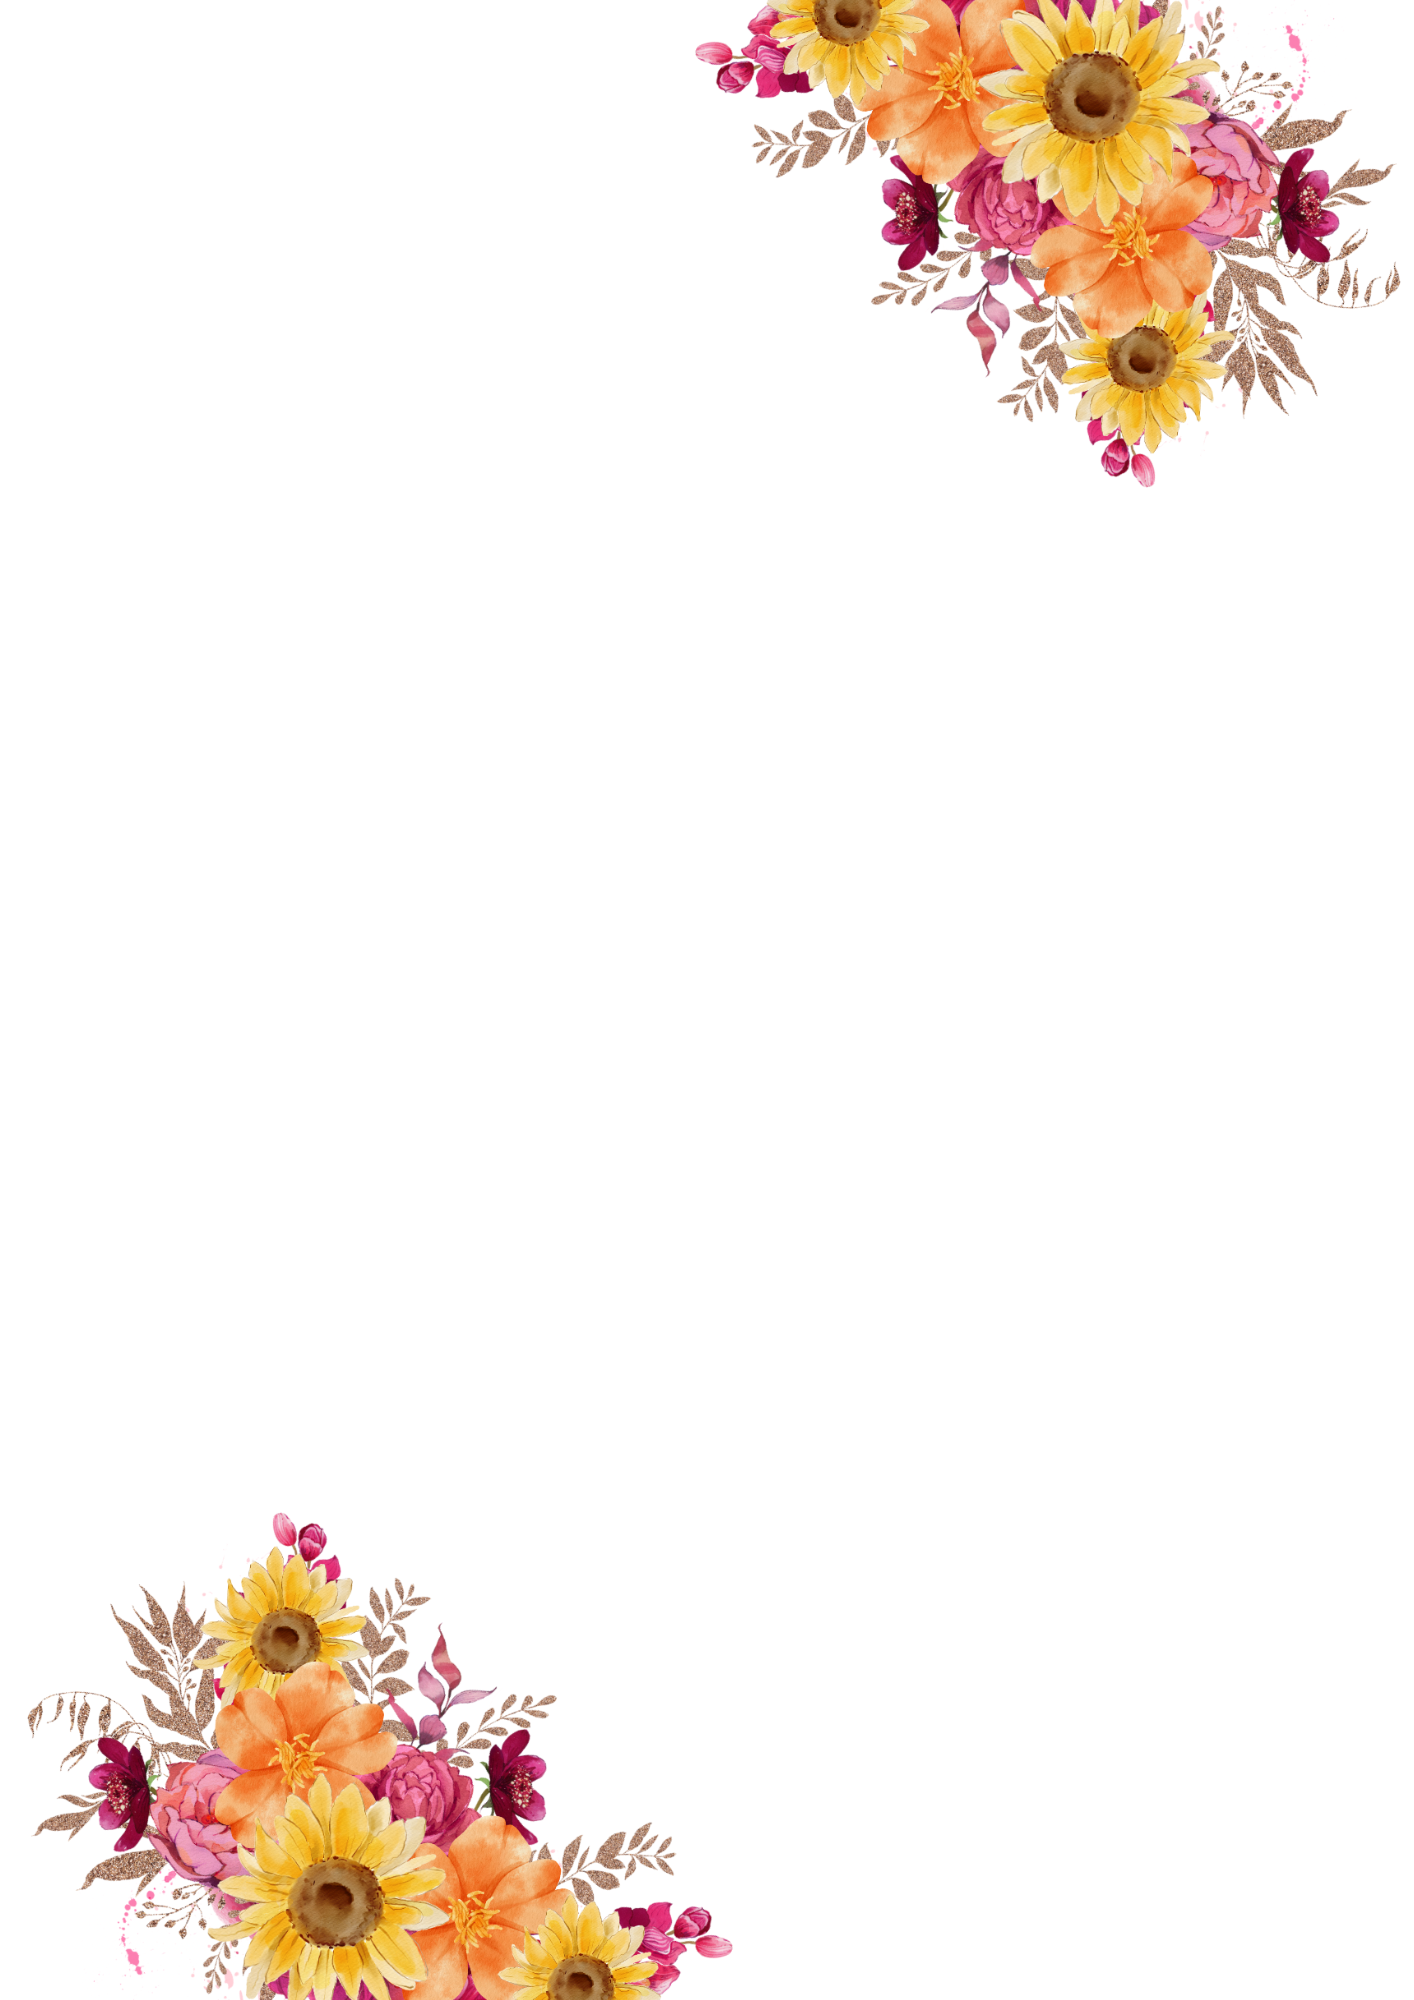
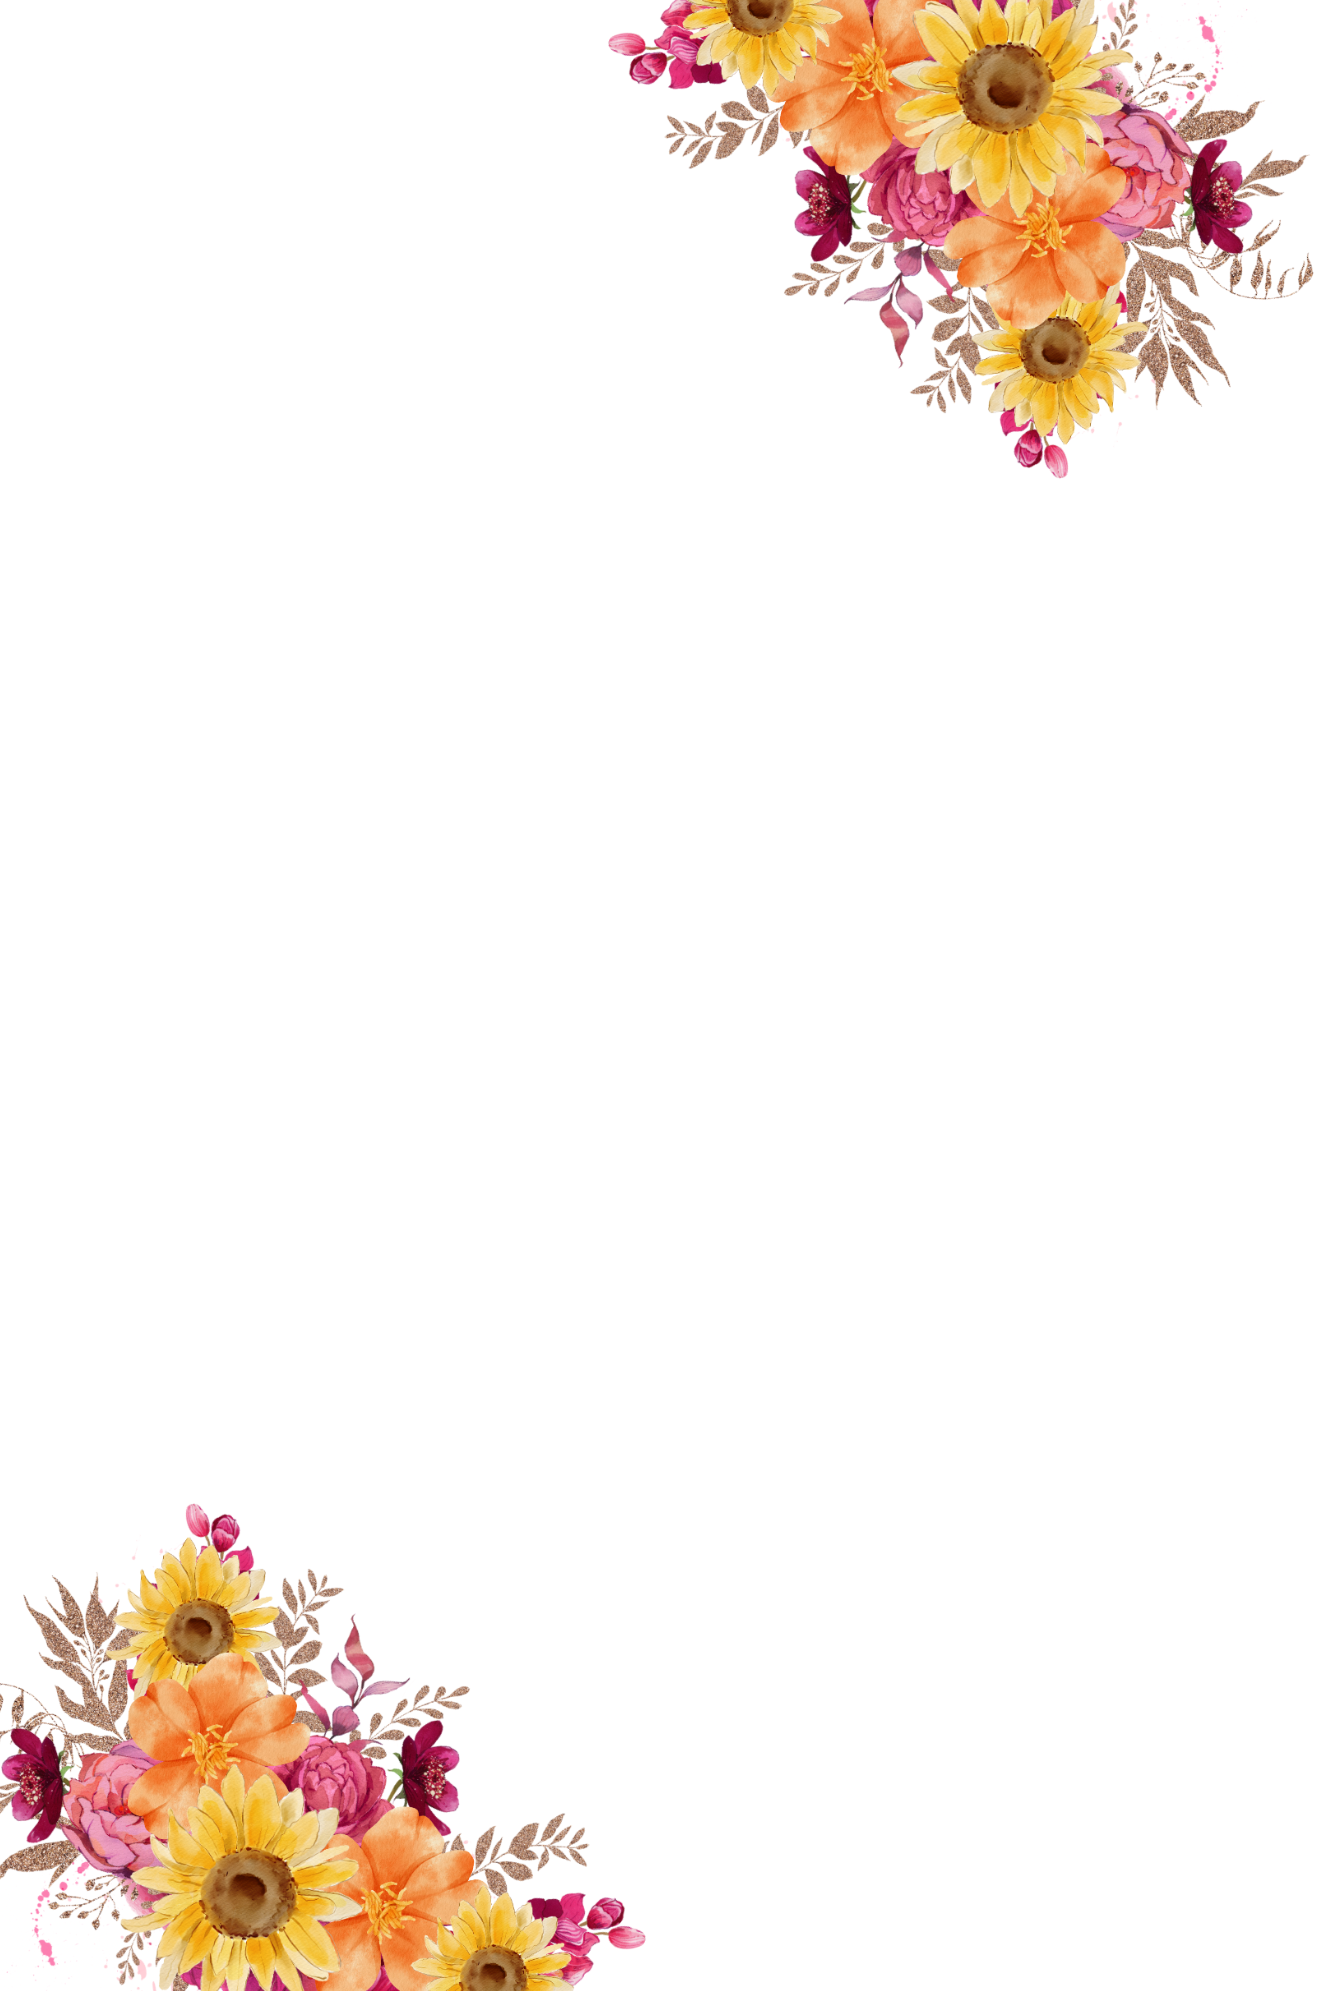
Mais ajustes.

Changed region(s): [[0.0, 0.7474, 0.5252, 1.0], [0.4635, 0.0, 0.9887, 0.2491]]

diff --git a/components/guest-name-screen.tsx b/components/guest-name-screen.tsx
@@ -26,32 +26,46 @@ export function GuestNameScreen({ onConfirm }: GuestNameScreenProps) {
   }
 
   return (
-    <section className="wedding-floral-bg relative flex min-h-[100svh] flex-col items-center justify-between overflow-y-auto overflow-x-hidden px-4 pb-[calc(env(safe-area-inset-bottom)+1.25rem)] pt-[calc(env(safe-area-inset-top)+1.25rem)] max-[360px]:px-3 max-[700px]:py-4 min-[390px]:py-8">
-      {/* Topo decorativo */}
-      <div className="relative z-10 flex flex-col items-center gap-3">
-        {/* Divisor com ponto marrom */}
-        <div className="flex items-center gap-3 w-40">
-          <div className="flex-1 h-px bg-accent"/>
-          <div className="w-2 h-2 rounded-full bg-primary"/>
-          <div className="flex-1 h-px bg-accent"/>
-        </div>
-        <p className="font-serif italic text-sm text-muted-foreground tracking-wide">
-          Brenda &amp; Jonathas
-        </p>
-      </div>
-
+    <section className="wedding-floral-bg relative flex min-h-[100svh] flex-col items-center overflow-y-auto overflow-x-hidden px-4 pb-[calc(env(safe-area-inset-bottom)+1.25rem)] pt-[calc(env(safe-area-inset-top)+1.25rem)] max-[360px]:px-3 max-[700px]:py-4 min-[390px]:py-8">
       {/* Conteúdo principal */}
-      <div className="relative z-10 flex w-full max-w-sm flex-col items-center gap-5 py-4 text-center max-[700px]:gap-4 max-[700px]:py-3 min-[390px]:gap-6">
-        <div className="flex flex-col gap-2">
-          <h1 className="font-serif text-[clamp(1.85rem,9vw,2.25rem)] font-bold text-foreground leading-tight max-[700px]:text-[1.9rem]">
-            Bem-vindo ao nosso álbum 💍
-          </h1>
-          <p className="font-sans text-sm leading-relaxed text-muted-foreground max-[700px]:text-[0.82rem]">
+      <div className="relative z-10 flex w-full max-w-sm flex-1 flex-col items-center justify-center gap-5 py-6 text-center max-[700px]:gap-4 max-[700px]:py-4 min-[390px]:gap-6">
+        <div className="flex w-full max-w-[19rem] flex-col items-center gap-4 max-[700px]:gap-3">
+          <div className="flex w-36 items-center gap-3 min-[390px]:w-44 max-[700px]:w-32">
+            <div className="flex-1 h-px bg-accent"/>
+            <div className="w-2 h-2 rounded-full bg-primary"/>
+            <div className="flex-1 h-px bg-accent"/>
+          </div>
+
+          <div className="flex flex-col items-center gap-1 text-accent">
+            <h1 className="font-montserrat text-[clamp(1.35rem,7vw,1.75rem)] font-semibold uppercase leading-[1.16] tracking-[0.2em] min-[390px]:tracking-[0.32em] max-[360px]:tracking-[0.16em] max-[700px]:text-[1.38rem]">
+              Brenda
+              <span className="block text-sm font-semibold leading-[1.1] tracking-[0.2em] min-[390px]:text-base">
+                &amp;
+              </span>
+              Jonathas
+            </h1>
+            <p className="font-montserrat text-[0.78rem] font-semibold leading-none tracking-[0.42em] min-[390px]:text-[0.82rem] min-[390px]:tracking-[0.5em]">
+              10.10.26
+            </p>
+          </div>
+
+          <div className="flex w-36 items-center gap-3 min-[390px]:w-44 max-[700px]:w-32">
+            <div className="flex-1 h-px bg-accent"/>
+            <div className="w-2 h-2 rounded-full bg-primary"/>
+            <div className="flex-1 h-px bg-accent"/>
+          </div>
+        </div>
+
+        <div className="flex max-w-[19rem] flex-col items-center gap-2">
+          <h2 className="font-serif text-[clamp(1.35rem,7vw,1.75rem)] font-bold leading-tight text-foreground">
+            Bem-vindo ao nosso álbum
+          </h2>
+          <p className="max-w-[17rem] font-sans text-sm leading-relaxed text-muted-foreground max-[700px]:text-[0.82rem]">
             Antes de continuar, nos diga seu nome para identificarmos suas fotos com carinho.
           </p>
         </div>
 
-        <div className="flex w-full flex-col gap-3 max-[700px]:gap-2.5">
+        <div className="flex w-full max-w-[19rem] flex-col gap-3 max-[700px]:gap-2.5">
           <input
             type="text"
             value={name}
@@ -70,7 +84,7 @@ export function GuestNameScreen({ onConfirm }: GuestNameScreenProps) {
           </button>
         </div>
 
-        <p className="font-sans text-xs text-muted-foreground max-[700px]:text-[0.7rem]">
+        <p className="max-w-[17rem] font-sans text-xs leading-relaxed text-muted-foreground max-[700px]:text-[0.7rem]">
           Seu nome será lembrado neste dispositivo para facilitar futuros envios.
         </p>
       </div>

diff --git a/app/globals.css b/app/globals.css
@@ -120,16 +120,37 @@ Função: Centraliza estilos globais, temas e tokens visuais da interface.
 
   .wedding-floral-bg {
     background-color: #fff;
-    background-image:
-      url("/backgrounds/floral-mobile.png"),
-      url("/backgrounds/floral-mobile.png");
-    background-position:
-      35% top,
-      82% bottom;
+    background-image: none;
+    isolation: isolate;
+    --floral-top-offset: 45px;
+    --floral-bottom-offset: -30px;
+  }
+
+  .wedding-floral-bg::before,
+  .wedding-floral-bg::after {
+    content: "";
+    position: absolute;
+    left: -64px;
+    z-index: 0;
+    width: calc(100% + 128px);
+    pointer-events: none;
+    background-image: url("/backgrounds/floral-mobile.png");
     background-repeat: no-repeat;
-    background-size:
-      cover,
-      cover;
+    background-size: cover;
+  }
+
+  .wedding-floral-bg::before {
+    top: 0;
+    height: 58%;
+    background-position: center top;
+    transform: translateX(var(--floral-top-offset));
+  }
+
+  .wedding-floral-bg::after {
+    bottom: 0;
+    height: 58%;
+    background-position: center bottom;
+    transform: translateX(var(--floral-bottom-offset));
   }
 
   @media (min-width: 768px) {
@@ -138,13 +159,17 @@ Função: Centraliza estilos globais, temas e tokens visuais da interface.
       background-position: center;
       background-size: cover;
     }
+
+    .wedding-floral-bg::before,
+    .wedding-floral-bg::after {
+      display: none;
+    }
   }
 
   @media (max-width: 767px) and (min-aspect-ratio: 9 / 16) {
-    .wedding-floral-bg {
-      background-size:
-        auto 100%,
-        auto 100%;
+    .wedding-floral-bg::before,
+    .wedding-floral-bg::after {
+      background-size: auto 100%;
     }
   }
 }